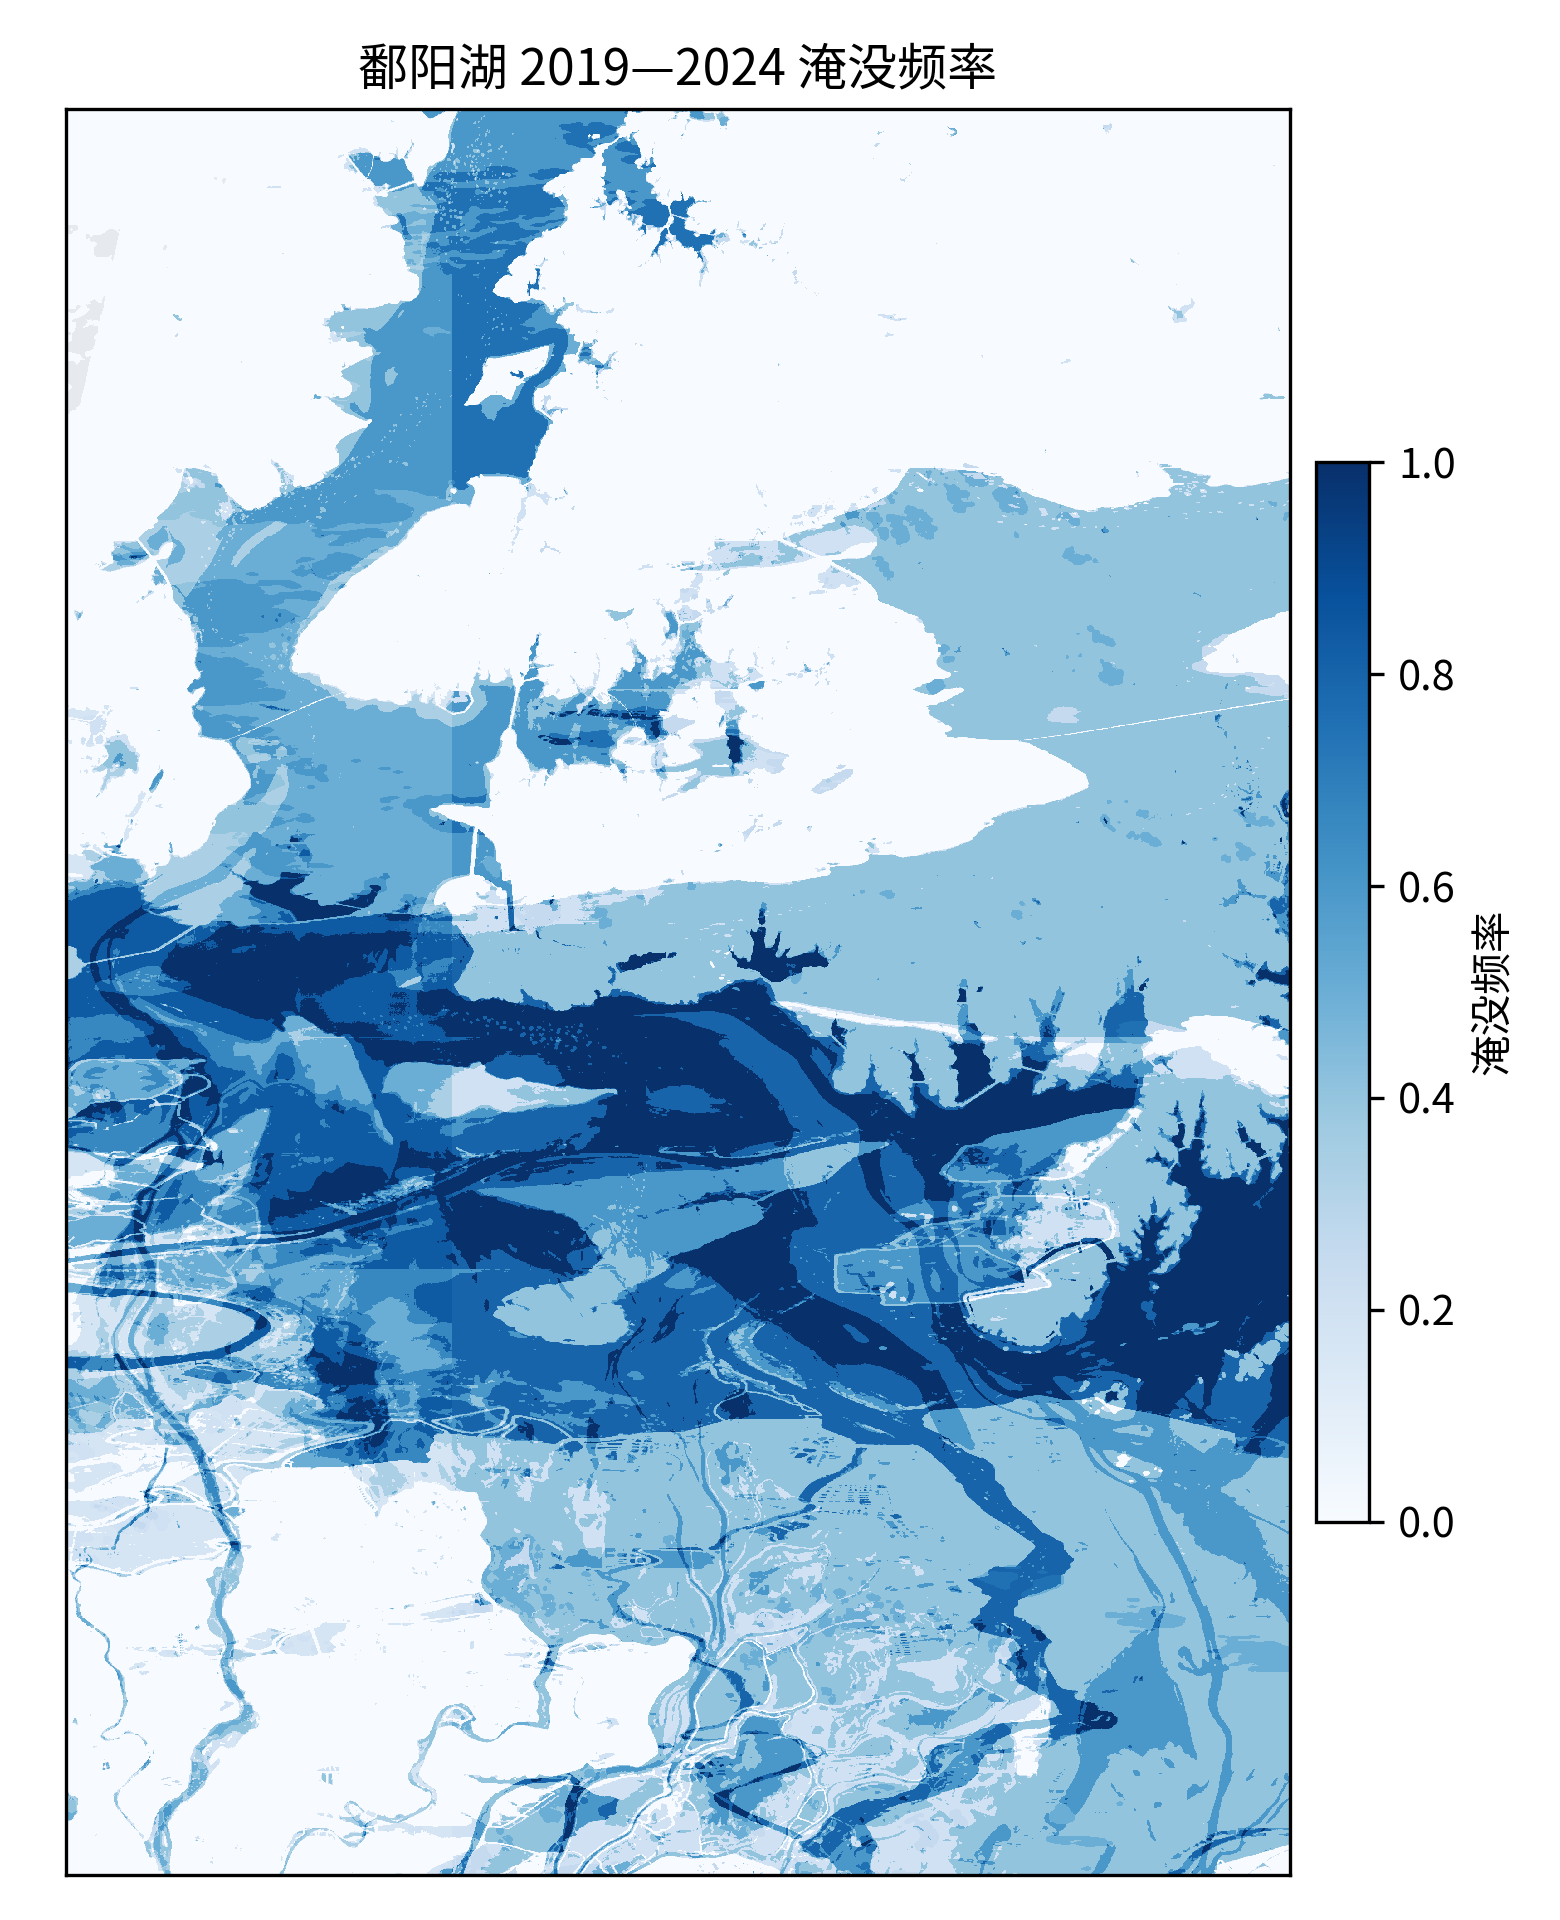
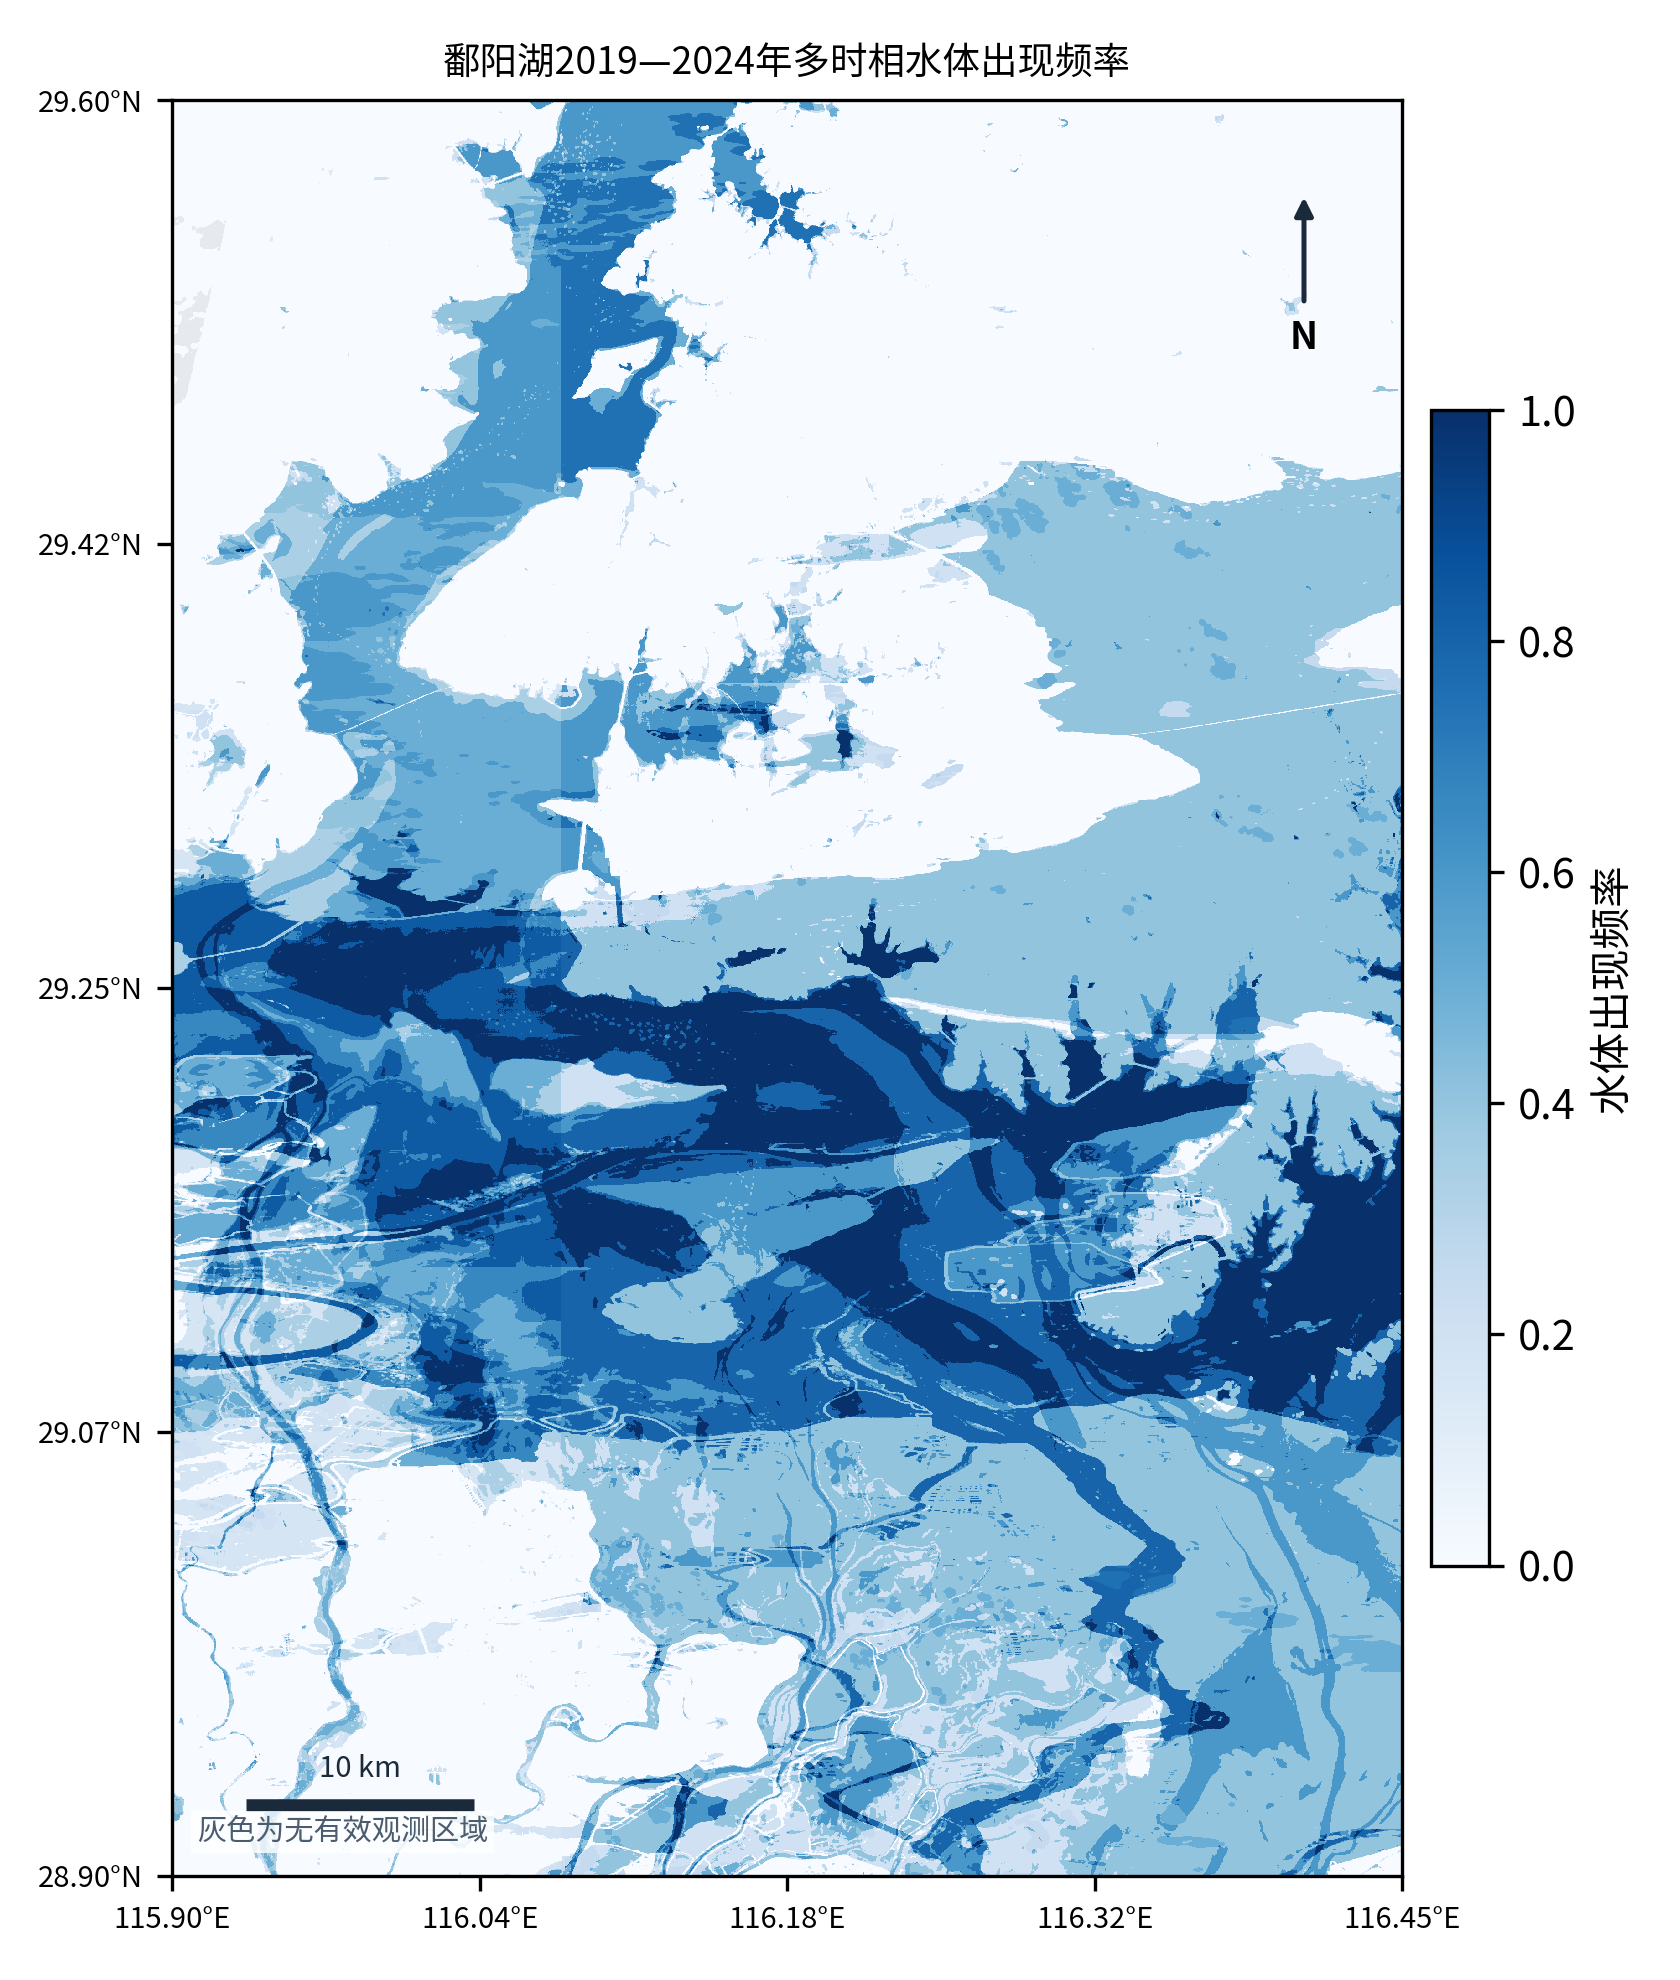
Final sync: abbreviations, figure captions, table order, Wilcoxon

diff --git a/code/eval_all.py b/code/eval_all.py
@@ -1,0 +1,83 @@
+# -*- coding: utf-8 -*-
+"""Full metrics (IoU/F1/OA/P/R) for every trained configuration, one fold per run."""
+import argparse
+import glob
+import json
+import os
+import random
+import sys
+
+import numpy as np
+import torch
+
+sys.path.insert(0, os.path.expanduser("~/sy/F2/code"))
+from model import UNet
+from train_usgs import FloodDS, IGN, CHIP_DIR, OUT
+
+F2 = os.path.expanduser("~/sy/F2")
+CHIPS17 = os.path.join(F2, "data", "chips17")
+ARCH = ["base", "std", "b4", "ndwi", "unetpp", "deeplab", "segformer"]
+
+
+def build(tag):
+    if tag == "base":
+        return UNet(in_ch=16, ds=True), None, CHIP_DIR
+    if tag == "std":
+        return UNet(in_ch=16, ds=False), None, CHIP_DIR
+    if tag == "b4":
+        return UNet(in_ch=4, ds=True), 4, CHIP_DIR
+    if tag == "ndwi":
+        return UNet(in_ch=17, ds=True), None, CHIPS17
+    import segmentation_models_pytorch as smp
+    if tag == "unetpp":
+        return smp.UnetPlusPlus("resnet34", encoder_weights=None, in_channels=16,
+                                classes=1), None, CHIP_DIR
+    if tag == "deeplab":
+        return smp.DeepLabV3Plus("resnet50", encoder_weights=None, in_channels=16,
+                                 classes=1), None, CHIP_DIR
+    return smp.Unet("mit_b0", encoder_weights=None, in_channels=16, classes=1), None, CHIP_DIR
+
+
+def main():
+    ap = argparse.ArgumentParser()
+    ap.add_argument("--fold", type=int, required=True)
+    f = ap.parse_args().fold
+    scenes = sorted(os.path.basename(p).replace(".npz", "")
+                    for p in glob.glob(os.path.join(CHIP_DIR, "*.npz")))
+    rng = random.Random(42)
+    order = scenes[:]
+    rng.shuffle(order)
+    val = order[f::5]
+    device = torch.device("cuda")
+    res = {}
+    for tag in ARCH:
+        wp = os.path.join(OUT, "u_%s_f%d.pt" % (tag, f))
+        if not os.path.exists(wp):
+            continue
+        m, nb, cdir = build(tag)
+        m.load_state_dict(torch.load(wp, map_location=device))
+        m.eval().to(device)
+        ds = FloodDS(val, False, nb or 0, cdir)
+        tp = fp = fn = tn = 0
+        with torch.no_grad():
+            for i in range(len(ds)):
+                x, y = ds[i]
+                p = torch.sigmoid(m(x.unsqueeze(0).to(device))).squeeze().cpu() > 0.5
+                v = y != IGN
+                t = y == 1
+                tp += (p & t & v).sum().item(); fp += (p & ~t & v).sum().item()
+                fn += (~p & t & v).sum().item(); tn += (~p & ~t & v).sum().item()
+        iou = 100 * tp / max(1, tp + fp + fn)
+        pre = 100 * tp / max(1, tp + fp); rec = 100 * tp / max(1, tp + fn)
+        oa = 100 * (tp + tn) / max(1, tp + tn + fp + fn)
+        f1 = 2 * pre * rec / max(1e-6, pre + rec)
+        res[tag] = dict(IoU=iou, F1=f1, OA=oa, P=pre, R=rec)
+        print("fold%d %-9s IoU=%.2f F1=%.2f OA=%.2f P=%.2f R=%.2f" % (
+            f, tag, iou, f1, oa, pre, rec), flush=True)
+        del m
+        torch.cuda.empty_cache()
+    json.dump(res, open(os.path.join(OUT, "metrics_all_f%d.json" % f), "w"), indent=1)
+
+
+if __name__ == "__main__":
+    main()

diff --git a/code/shap_dep.py b/code/shap_dep.py
@@ -1,0 +1,48 @@
+# -*- coding: utf-8 -*-
+"""SHAP dependence plots for elevation and wetland fraction."""
+import json
+import os
+
+import numpy as np
+import shap
+from sklearn.ensemble import RandomForestRegressor
+import matplotlib
+matplotlib.use("Agg")
+import matplotlib.pyplot as plt
+from matplotlib import font_manager
+
+fp = "/usr/share/fonts/opentype/noto/NotoSansCJK-Regular.ttc"
+if os.path.exists(fp):
+    font_manager.fontManager.addfont(fp)
+    plt.rcParams["font.family"] = font_manager.FontProperties(fname=fp).get_name()
+plt.rcParams["axes.unicode_minus"] = False
+
+F2 = os.path.expanduser("~/sy/F2")
+P4 = os.path.join(F2, "runs", "p4")
+rows = json.load(open(os.path.join(P4, "cells.json")))
+FEATS = ["f_water", "f_built", "f_crop", "f_tree", "f_grass", "f_wetland",
+         "f_bare", "f_shrub", "elev"]
+X = np.array([[r.get(k, 0.0) for k in FEATS] for r in rows], dtype="float32")
+y = np.array([r["freq"] for r in rows], dtype="float32")
+rf = RandomForestRegressor(n_estimators=500, min_samples_leaf=3, random_state=42, n_jobs=-1).fit(X, y)
+sv = shap.TreeExplainer(rf).shap_values(X)
+
+fig, axes = plt.subplots(1, 2, figsize=(8.0, 3.4))
+for ax, feat, label in ((axes[0], "elev", "高程"), (axes[1], "f_wetland", "湿地比例")):
+    i = FEATS.index(feat)
+    ax.scatter(X[:, i], sv[:, i], s=6, alpha=0.5, color="#4E82B2", edgecolors="none")
+    z = np.polyfit(X[:, i], sv[:, i], 1)
+    xs = np.linspace(X[:, i].min(), X[:, i].max(), 50)
+    ax.plot(xs, np.polyval(z, xs), color="#C0392B", lw=1.4)
+    ax.axhline(0, color="#8A97A3", lw=0.8, ls=":")
+    ax.set_xlabel(label)
+    ax.set_ylabel("SHAP 值")
+    ax.grid(ls=":", alpha=0.4)
+    corr = np.corrcoef(X[:, i], sv[:, i])[0, 1]
+    ax.set_title("%s（r=%.2f）" % (label, corr), fontsize=9)
+fig.tight_layout()
+fig.savefig(os.path.join(F2, "out", "figs", "fig_shap_dep.png"), dpi=300)
+print("saved fig_shap_dep")
+for feat in ("elev", "f_wetland"):
+    i = FEATS.index(feat)
+    print(feat, "corr %.2f" % np.corrcoef(X[:, i], sv[:, i])[0, 1])

diff --git a/paper/body2b.py b/paper/body2b.py
@@ -58,7 +58,7 @@ S4 = [
     ]),
     ("4.2 坡面尺度滞蓄供需", [
         "为初步评估研究区下垫面的雨洪消纳能力，在坡面尺度（仅计产流与地表滞蓄，不含河湖库容调蓄）"
-        "以1 km网格开展情景计算。曲线数CN按地类赋值（林地60、草地70、耕地78、建设用地92、湿地85），"
+        "以1 km网格开展情景计算。曲线数（curve number，CN）按地类赋值（林地60、草地70、耕地78、建设用地92、湿地85），"
         "该范式与生态水文调节服务的量化方法一致[23]，"
         "按网格内各地类占比加权；设计降雨取100 mm、前期土壤湿润程度为中等（AMCⅡ）；"
         "以产流超出滞蓄20%作为赤字阈值。",
@@ -70,7 +70,7 @@ S4 = [
     ]),
 ("4.3 驱动因子分析", [
         "为识别水体出现频率空间分异的驱动因子，以1 km网格的水体出现频率为因变量，"
-        "以各地类比例、高程为自变量，构建随机森林回归模型，并用SHAP值量化各因子的贡献。"
+        "以各地类比例、高程为自变量，构建随机森林回归模型，并用SHAP（Shapley Additive Explanations）值量化各因子的贡献。"
         "模型5折交叉验证的R²为0.461，属于中等解释力：地类与地形能够解释约一半的空间变异，"
         "其余部分与降水、河网连通性、堤防工程等未纳入的因子有关。因此本文将该部分定位为"
         "“相关性分析”，不对因果关系作进一步推断。",

diff --git a/code/p13_wcover.py b/code/p13_wcover.py
@@ -1,0 +1,35 @@
+# -*- coding: utf-8 -*-
+"""Permanent-water vs ESA WorldCover water class agreement."""
+import os
+
+import numpy as np
+import rasterio
+from rasterio.enums import Resampling
+from rasterio.warp import reproject, transform_bounds
+
+F2 = os.path.expanduser("~/sy/F2")
+freq = np.load(os.path.join(F2, "runs", "poyang", "freq.npy"))
+H, W = freq.shape
+BBOX = (115.90, 28.90, 116.45, 29.60)
+CRS = "EPSG:32650"
+left, bottom, right, top = transform_bounds("EPSG:4326", CRS, *BBOX)
+tr = rasterio.transform.from_origin(left, top, (right - left) / W, (top - bottom) / H)
+
+wc = np.zeros((H, W), "uint8")
+with rasterio.open(os.path.join(F2, "data", "aux", "landcover_n27.tif")) as ds:
+    reproject(rasterio.band(ds, 1), wc, src_transform=ds.transform, src_crs=ds.crs,
+              dst_transform=tr, dst_crs=CRS, resampling=Resampling.nearest)
+
+valid = np.isfinite(freq) & (wc > 0)
+perm = valid & (freq >= 0.9)
+wcw = valid & (wc == 80)
+
+tp = int((perm & wcw).sum())
+fp = int((perm & ~wcw).sum())
+fn = int((~perm & wcw).sum())
+tn = int((valid & ~perm & ~wcw).sum())
+prec = 100 * tp / max(1, tp + fp)
+rec = 100 * tp / max(1, tp + fn)
+iou = 100 * tp / max(1, tp + fp + fn)
+print("valid px %d  ours=%d  wc=%d" % (valid.sum(), perm.sum(), wcw.sum()))
+print("precision %.1f%%  recall %.1f%%  IoU %.1f%%" % (prec, rec, iou))

diff --git a/paper/build_paper2.py b/paper/build_paper2.py
@@ -188,7 +188,7 @@ for head, ps in S2:
         equation(EQ_RATIO, 2)
         para("当C′较大时，该比值趋近于1/9，即参数量压缩近9倍。")
         add_figure(os.path.join(FIGDIR, "fig_net.png"), 13.6)
-        caption("图2　轻量化U-Net网络结构", before=4)
+        caption("图2　轻量化U-Net网络结构（首层与输出层为标准卷积，编码与解码阶段为深度可分离卷积）", before=4)
     if head.startswith("2.3"):
         equation(EQ_LOSS, 3)
         para("式中：L_{BCE}为二分类交叉熵；X、Y分别为预测与真值水体像元集合；λ为平衡系数，取0.5。"
@@ -248,7 +248,7 @@ for txt in t[1]:
 add_figure(os.path.join(FIGDIR, "fig_box.png"), 12.6)
 caption("图4　不同方法的逐场景IoU分布（33个场景）", before=4)
 add_figure(os.path.join(FIGDIR, "fig_vis.png"), 15.2)
-caption("图5　典型场景的提取结果对比（自上而下依次为海岸、河网与湖岸）", before=4)
+caption("图5　典型场景的提取结果对比：各列依次为影像、真值、本文方法、DeepLabV3+、U-Net++与标准卷积；自上而下依次为海岸、河网与湖岸", before=4)
 
 h2("3.3　消融实验")
 caption("表4　消融实验结果", before=4, after=2, keep_next=True)

diff --git a/paper/body2.py b/paper/body2.py
@@ -128,7 +128,8 @@ S3 = [
         "实验基于PyTorch 2.5.1，硬件为单张NVIDIA RTX 4090，训练过程的验证集IoU变化如图3所示。优化器为Adam，初始学习率1×10⁻³，"
         "余弦退火至1×10⁻⁵，批大小8，最多训练60轮，验证集IoU连续12轮不提升即早停。"
         "每折独立训练并保存验证集IoU最优的权重，最终报告5折的均值。",
-        "评价指标为交并比（IoU）、F1、总体精度（OA）、精确率（P）与召回率（R），"
+        "评价指标为交并比（intersection over union，IoU）、F1（精确率与召回率的调和平均）、"
+        "总体精度（overall accuracy，OA）、精确率（precision，P）与召回率（recall，R），"
         "均在有效像元上统计。对比方法包括：标准卷积U-Net（7.78×10⁶参数）、U-Net++[8]、"
         "DeepLabV3+[9]，以及SegFormer（MiT-B0）——后者作为轻量Transformer基线，用于检验卷积结构与Transformer结构在本任务上的性能差异；"
         "消融模型则与本文同骨干、仅改变输入波段。"
